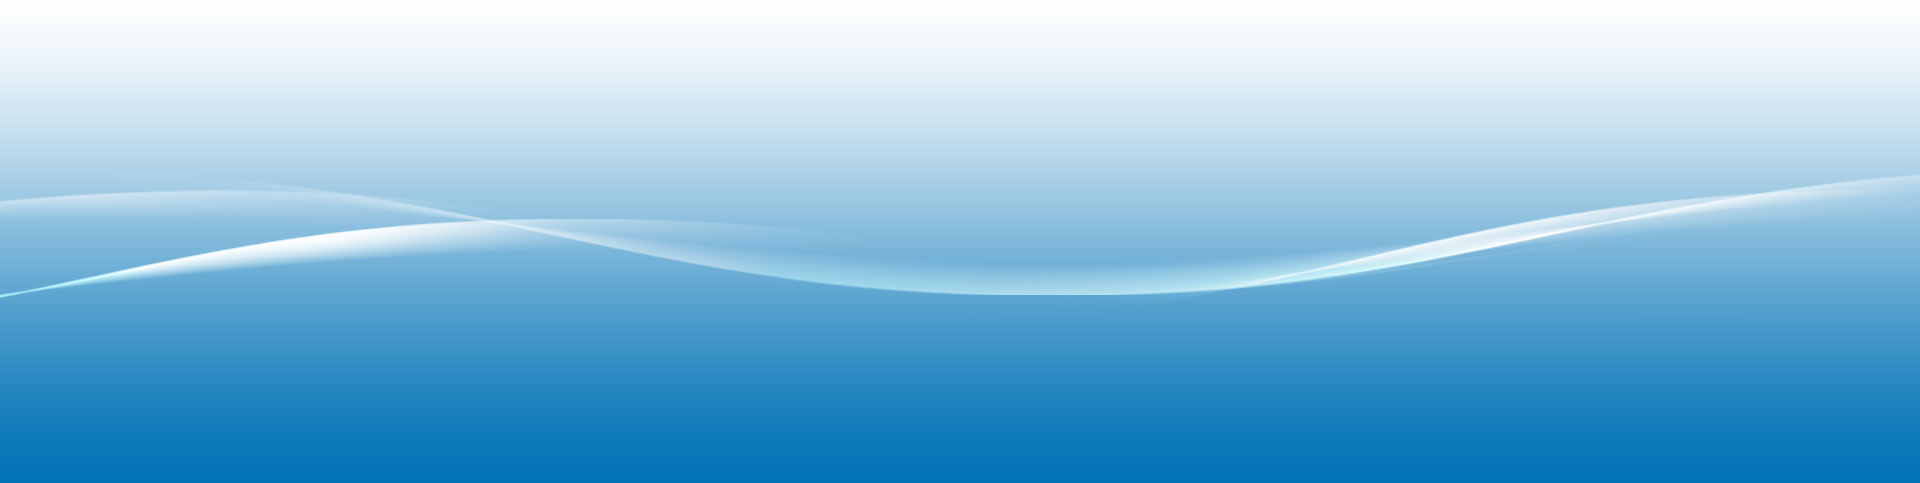
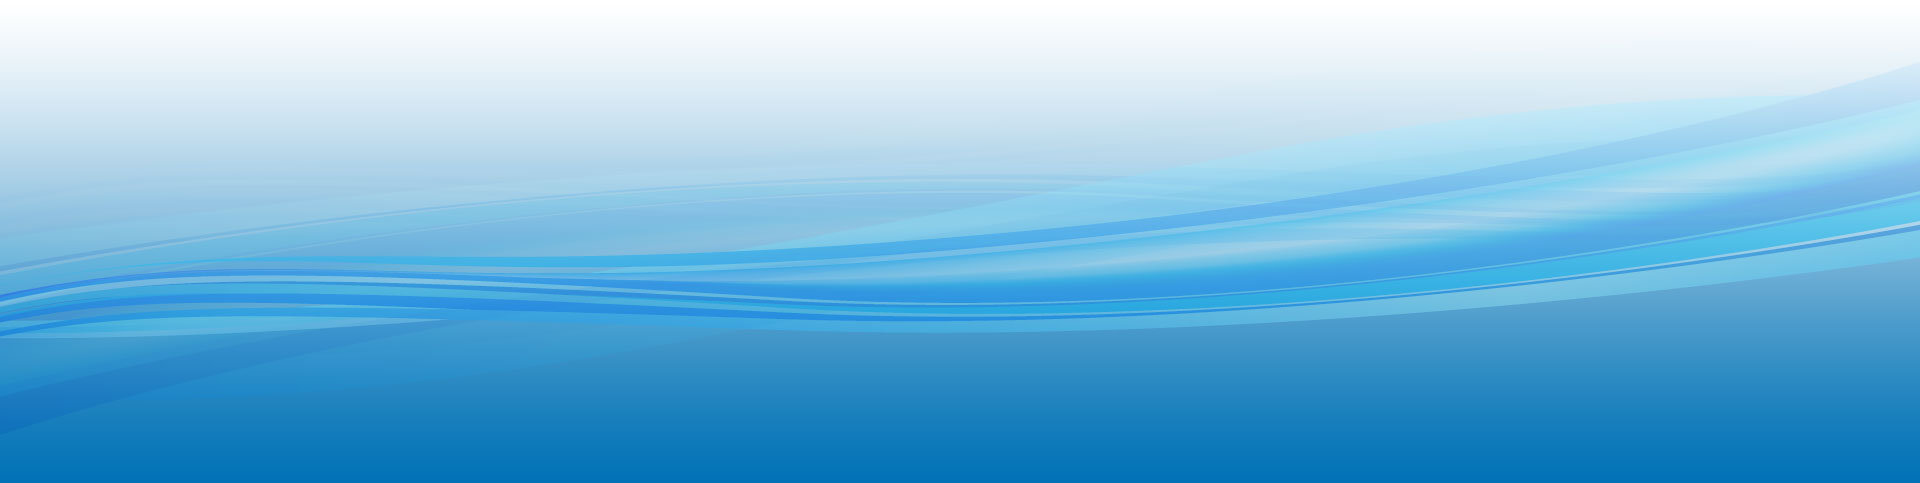
修改背景图

Changed region(s): [[0.0, 0.1863, 1.0, 0.7143], [0.0, 0.3727, 0.2188, 0.4348]]

diff --git a/wp/css/style.css b/wp/css/style.css
@@ -208,8 +208,7 @@ body{font-family:Arial,Helvetica,sans-serif,simsun;font-size:12px;}
 .topnav li{float:left;border-right:1px solid #000;border-right: 1px solid #000;padding: 0 12px;}
 .nav-1 li{float:left;margin-left:0px;line-height:22px;display:inline;padding: 5px 9px;}
 .mainnav{right:27px;;bottom:10px;;font-size:14px;font-family:microsoft yahei;}
-.home #main{#main{background: #0172b6 url('../img/bg.jpg') no-repeat 0 0;width:100%;min-height:570px;}}
-#main{background: #0172b6 url('../img/bg2.jpg') no-repeat 0 0;width:100%;min-height:480px;}
+#main{background: #0172b6 url('../img/bg.jpg') no-repeat 0 0;width:100%;min-height:480px;}
 .mainnav .current_page_item,.mainnav .current-menu-item{font-size:14px;font-weight:bold;background:#0273b7;padding: 5px 9px;}
 .mainnav .current_page_item a,.mainnav .current-menu-item a{color:#fff!important;}
 .footer{padding-top:25px;line-height:22px;border-top:1px solid #c4c4c4;margin-top:1px;}
